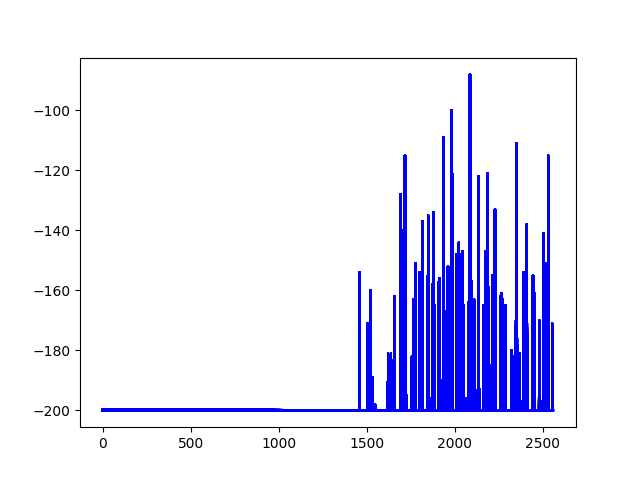
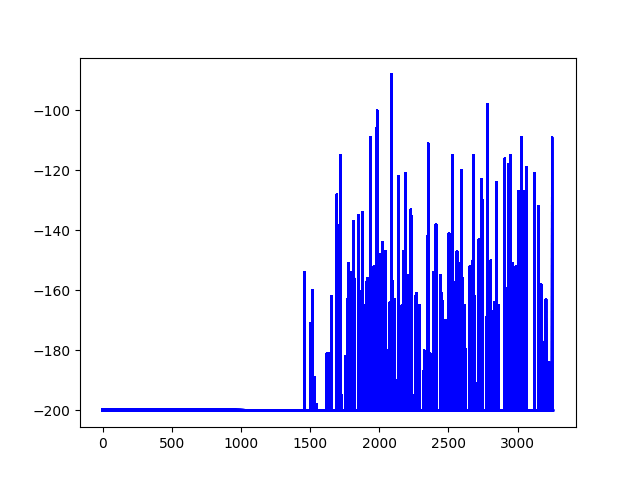
add stop_gradient

diff --git a/Code 3. Atari Game/1. Breakout/Breakout_DQN.py b/Code 3. Atari Game/1. Breakout/Breakout_DQN.py
@@ -5,7 +5,7 @@ import numpy as np
 from collections import deque
 from skimage.color import rgb2gray
 from skimage.transform import resize
-
+from keras import backend as K
 from keras.models import Sequential
 from keras.optimizers import RMSprop
 from keras.layers import Dense, Flatten
@@ -16,7 +16,7 @@ EPISODES = 5000
 
 class DQNAgent:
     def __init__(self):
-        self.render = True
+        self.render = False
 
         self.state_size = (84, 84, 4)
         self.action_size = 6
@@ -33,7 +33,7 @@ class DQNAgent:
         self.update_target_rate = 10000
         self.discount_factor = 0.99
         self.memory = deque(maxlen=400000)
-        self.no_op_steps = 30
+        self.not_move_steps = 30
         self.learning_rate = 0.00025
         self.momentum = 0.95
         self.min_gradient = 0.01
@@ -44,19 +44,25 @@ class DQNAgent:
 
     def build_model(self):
         model = Sequential()
-        model.add(Conv2D(32, (8, 8), input_shape=self.state_size, activation='relu', strides=(4, 4),
-                         kernel_initializer='glorot_uniform'))
-        model.add(Conv2D(64, (4, 4), activation='relu', strides=(2, 2),
-                         kernel_initializer='glorot_uniform'))
-        model.add(Conv2D(64, (3, 3), activation='relu', strides=(1, 1),
-                         kernel_initializer='glorot_uniform'))
+        model.add(Conv2D(32, (8, 8), strides=(4, 4), activation='relu', input_shape=self.state_size))
+        model.add(Conv2D(64, (4, 4), strides=(2, 2), activation='relu'))
+        model.add(Conv2D(64, (3, 3), strides=(1, 1), activation='relu'))
         model.add(Flatten())
-        model.add(Dense(512, activation='relu', kernel_initializer='glorot_uniform'))
+        model.add(Dense(512, activation='relu'))
         model.add(Dense(self.action_size))
         model.summary()
-        model.compile(loss='mse', optimizer=RMSprop(
-            lr=self.learning_rate, rho=self.momentum, epsilon=self.min_gradient))
         return model
+
+    def optimizer(self):
+        action = K.placeholder(shape=[None, self.action_size])
+        predicted_q_value = K.placeholder(shape=[None, ])
+
+        loss = a
+
+        optimizer = RMSprop(lr=self.learning_rate, rho=self.momentum, epsilon=self.min_gradient)
+        updates = optimizer.get_updates(self.model.trainable_weights, [], loss)
+        train = K.function([self.model.input, action, predicted_q_value], [], updates=updates)
+        return train
 
     def update_target_model(self):
         self.target_model.set_weights(self.model.get_weights())
@@ -123,7 +129,7 @@ if __name__ == "__main__":
         score, start_live = 0, 5
         observe = env.reset()
         next_observe = observe
-        for _ in range(random.randint(1, agent.no_op_steps)):
+        for _ in range(random.randint(1, agent.not_move_steps)):
             observe = next_observe
             next_observe, _, _, _ = env.step(1)
 

diff --git a/Code 4. Mountain Car/1. DQN/MountainCar_DQN.py b/Code 4. Mountain Car/1. DQN/MountainCar_DQN.py
@@ -26,9 +26,10 @@ class DQNAgent:
         # these is hyper parameters for the DQN
         self.discount_factor = 0.99
         self.learning_rate = 0.001
+
         self.epsilon = 1.0
         self.epsilon_decay = 0.99999
-        self.epsilon_min = 0.01
+        self.epsilon_min = 0.1
         self.batch_size = 64
         self.train_start = 100000
         # create replay memory using deque
@@ -118,18 +119,20 @@ if __name__ == "__main__":
 
     scores, episodes = [], []
     action_fake = 0
+    goal_position = 0.5
+    global_step = 0
 
     for e in range(EPISODES):
         done = False
         score = 0
         state = env.reset()
-
+        at_top = False
         state = np.reshape(state, [1, state_size])
 
         while not done:
             if agent.render:
                 env.render()
-
+            global_step += 1
             # get action for the current state and go one step in environment
             action = agent.get_action(state)
             if action == 0:
@@ -139,8 +142,10 @@ if __name__ == "__main__":
 
             next_state, reward, done, info = env.step(action_fake)
             next_state = np.reshape(next_state, [1, state_size])
-            if reward > -1:
+
+            if next_state[0][0] >= goal_position:
                 reward = 100
+                at_top = True
             # save the sample <s, a, r, s'> to the replay memory
             agent.replay_memory(state, action, reward, next_state, done)
             # every time step do the training
@@ -150,14 +155,12 @@ if __name__ == "__main__":
 
             if done:
                 # every episode, plot the play time
-                if score > -200:
-                    score = score - 100
                 scores.append(score)
                 episodes.append(e)
                 pylab.plot(episodes, scores, 'b')
                 pylab.savefig("./save_graph/MountainCar_DQN1.png")
                 print("episode:", e, "  score:", score, "  memory length:", len(agent.memory),
-                      "  epsilon:", agent.epsilon)
+                      "  global_step:", global_step, "  epsilon:", agent.epsilon, "  at_top:", at_top)
 
         # save the model
         # if e % 50 == 0:

diff --git a/Code 2. Cartpole/4. Policy Gradient/Cartpole_PolicyGradient.py b/Code 2. Cartpole/4. Policy Gradient/Cartpole_PolicyGradient.py
@@ -15,7 +15,7 @@ EPISODES = 1000
 class PGAgent:
     def __init__(self, state_size, action_size):
         # if you want to see Cartpole learning, then change to True
-        self.render = True
+        self.render = False
 
         # get size of state and action
         self.state_size = state_size
@@ -144,7 +144,7 @@ if __name__ == "__main__":
                 scores.append(score)
                 episodes.append(e)
                 pylab.plot(episodes, scores, 'b')
-                # pylab.savefig("./save_graph/Cartpole_PG.png")
+                pylab.savefig("./save_graph/Cartpole_PG.png")
                 print("episode:", e, "  score:", score)
 
                 # if the mean of scores of last 10 episode is bigger than 490

diff --git a/Code 2. Cartpole/3. Dueling DQN/Cartpole_DuelingDQN.py b/Code 2. Cartpole/3. Dueling DQN/Cartpole_DuelingDQN.py
@@ -160,7 +160,7 @@ if __name__ == "__main__":
                 # every episode update the target model to be same with model
                 agent.update_target_model()
                 # every episode, plot the play time
-                score = score if score == 499 else score + 100
+                score = score if score == 500 else score + 100
                 scores.append(score)
                 episodes.append(e)
                 pylab.plot(episodes, scores, 'b')

diff --git a/Code 1. Grid World/7. Policy Gradient/Gridworld_PG.py b/Code 1. Grid World/7. Policy Gradient/Gridworld_PG.py
@@ -41,7 +41,7 @@ class PGAgent:
         # Policy Gradient 의 핵심
         # log(정책) * return 의 gradient 를 구해서 최대화시킴
         good_prob = K.sum(action * self.model.output, axis=1)
-        eligibility = K.log(good_prob) * discounted_rewards
+        eligibility = K.log(good_prob) * K.stop_gradient(discounted_rewards)
         loss = -K.sum(eligibility)
 
         optimizer = Adam(lr=self.learning_rate)

diff --git a/Code 2. Cartpole/5. Actor-Critic/Cartpole_ActorCritic.py b/Code 2. Cartpole/5. Actor-Critic/Cartpole_ActorCritic.py
@@ -64,7 +64,7 @@ class ACAgent:
         # Policy Gradient 의 핵심
         # log(정책) * return 의 gradient 를 구해서 최대화시킴
         good_prob = K.sum(action * self.actor.output, axis=1)
-        eligibility = K.log(good_prob + 1e-10) * advantages
+        eligibility = K.log(good_prob + 1e-10) * K.stop_gradient(advantages)
         loss = -K.sum(eligibility)
 
         optimizer = Adam(lr=self.actor_lr)

diff --git a/Code 4. Mountain Car/2. DDPG/MountainCar_DDPG.py b/Code 4. Mountain Car/2. DDPG/MountainCar_DDPG.py
@@ -1,0 +1,1 @@
+# we will implement DDPG to mountain car
